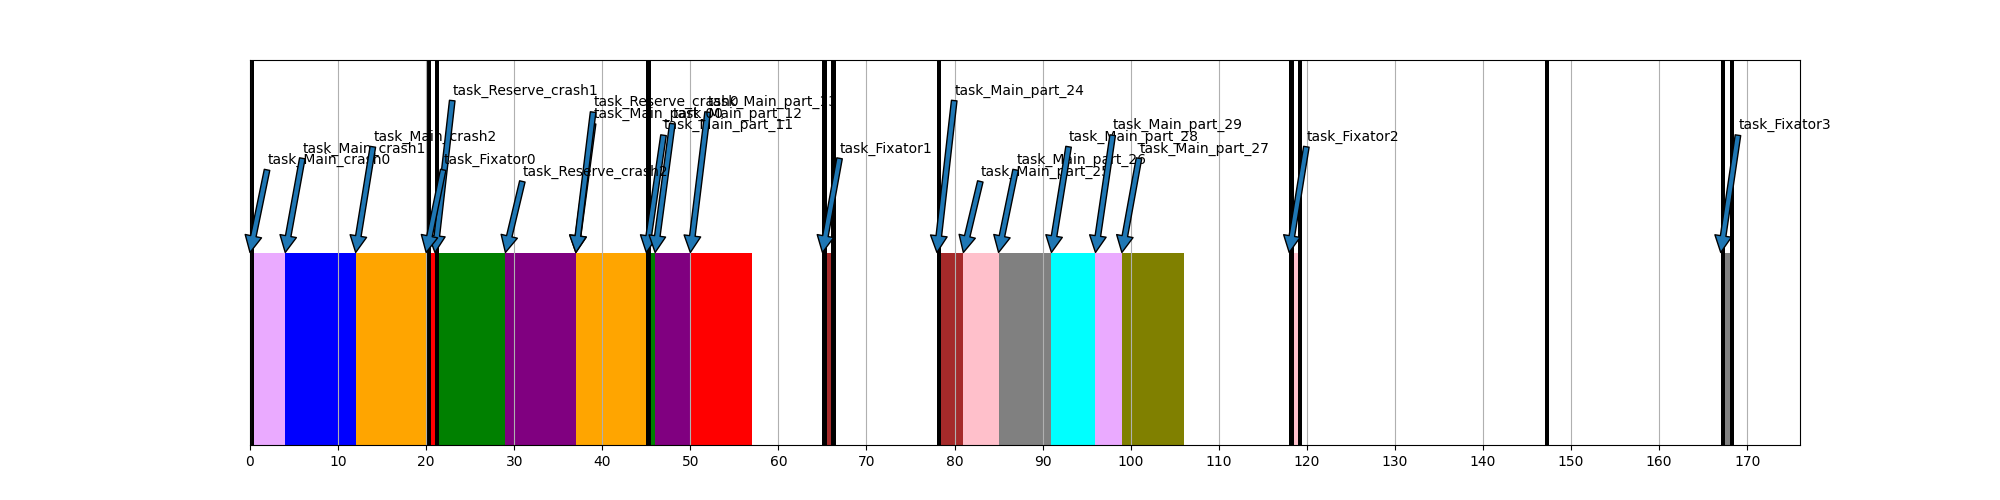
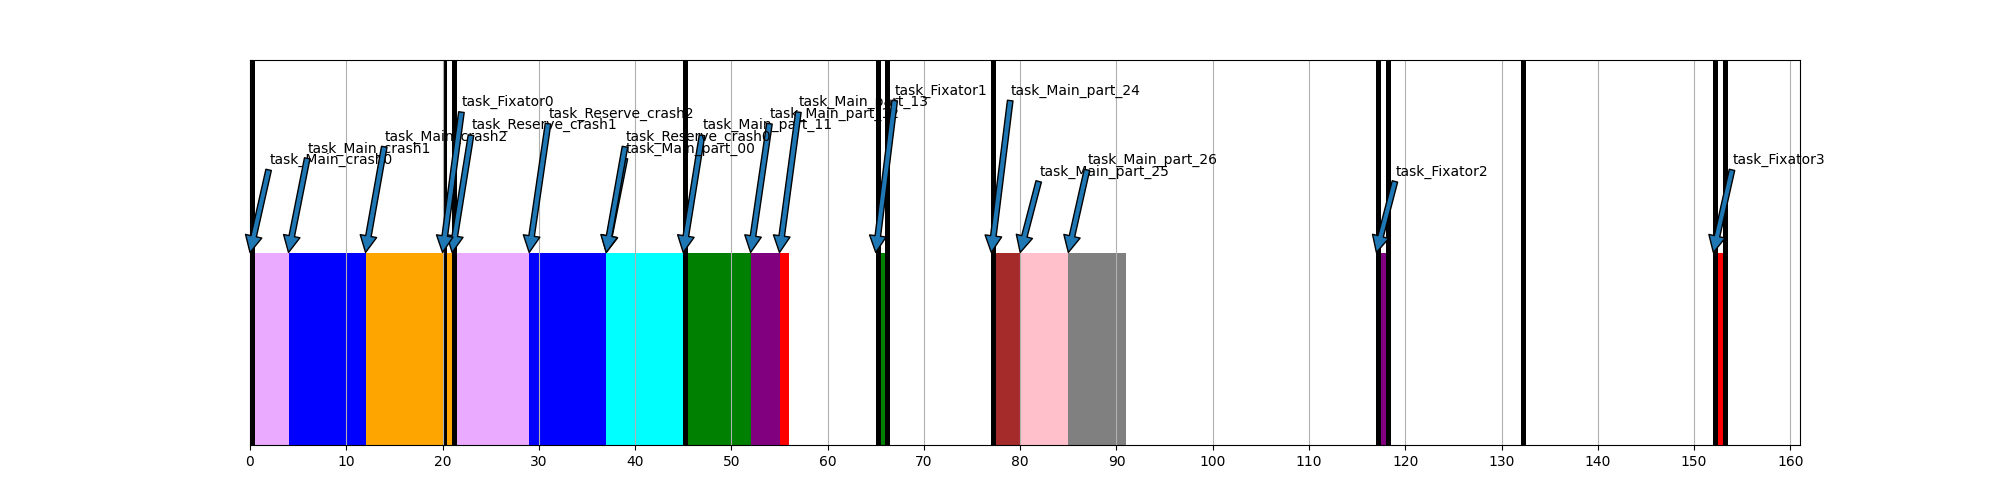
Bug fix and fix of vizual

Changed region(s): [[0.124, 0.12, 0.93, 0.93]]

diff --git a/First_run.py b/First_run.py
@@ -65,6 +65,8 @@ def read_data(TASK_CRASHED_ID, CRASHED_PART_OF_TASK, MF_PERIOD, FIXATOR_TIME, GR
 
     MAP_PARTITION_TASK = eval(config["MAP_PARTITION_TASK"]["dict"])
     MAP_WINDOW_PARTITION = eval(config["MAP_WINDOW_PARTITION"]["dict"])
+
+    return TASK_CRASHED_ID, CRASHED_PART_OF_TASK, MF_PERIOD, FIXATOR_TIME, GRAPH_INITIAL_APP, MAP_PARTITION_TASK, MAP_WINDOW_PARTITION
     
 
     
@@ -151,7 +153,8 @@ def create_double_visualization(filename1, filename2, task_crasshed_id):
     draw = ImageDraw.Draw(img)
     font = ImageFont.truetype(font="./open-sans/OpenSans-ExtraBold.ttf", size=40)
     # draw.text((x, y),"Sample Text",(r,g,b))
-    draw.text((10, 10),"Crashed task: " + str(task_crasshed_id) + "; Part of crashed task: " + str(CRASHED_PART_OF_TASK),(0,0,0), font=font )
+    draw.text((10, 10),"No fault",(0,0,0), font=font )
+    draw.text((10, 256*2 + 10),"Crashed task: " + str(task_crasshed_id) + "; Part of crashed task: " + "Left" if CRASHED_PART_OF_TASK == 0 else "Right",(0,0,0), font=font )
     with open("num_test.pkl", "rb") as file:
         next_test = pickle.load(file)
         try: 
@@ -288,7 +291,7 @@ def write_nvp_xml(graph_main_crash, MF_PERIOD, windows_nvp, second_main_app_grap
     with open("test_nvp.xml", "w") as file: 
         file.write("<?xml version=\"1.0\" ?>\n")
         file.write("<system>\n")
-        file.write("\t<module major_frame=\"{}\" name=\"core1\">\n\n".format(MF_PERIOD))
+        file.write("\t<module major_frame=\"{}\" name=\"core1\">\n\n".format(MF_PERIOD+1))
 
         graph_reserve_window = graph_main_crash.copy() 
         graph_fixator = ig.Graph(n=len(windows_nvp)//3)
@@ -353,18 +356,18 @@ def write_nvp_xml(graph_main_crash, MF_PERIOD, windows_nvp, second_main_app_grap
                     tmp1 = int(All_graphs_nvp_dict["Main"].vs[i]["name"])
                     tmp2 = MAP_PARTITION_TASK[Map_partition_id[q_partition]]
                     if tmp1 in tmp2:
-                        file.write("\t\t\t<task deadline=\"{}\" id=\"{}\" name=\"task_{}\" offset=\"0\" period=\"{}\" prio=\"1\" wcet=\"{}\"/>\n".format(MF_PERIOD - 1, str(int(All_graphs_nvp_dict["Main"].vs[i]["name"])), q_partition + str(i), MF_PERIOD, All_graphs_nvp_dict["Main"].vs[i]["duration"]))
+                        file.write("\t\t\t<task deadline=\"{}\" id=\"{}\" name=\"task_{}\" offset=\"0\" period=\"{}\" prio=\"1\" wcet=\"{}\"/>\n".format(MF_PERIOD + 1, str(int(All_graphs_nvp_dict["Main"].vs[i]["name"])), q_partition + str(i), MF_PERIOD, All_graphs_nvp_dict["Main"].vs[i]["duration"]))
 
             elif q_partition == "Main_crash":
                 for i in range(len(All_graphs_nvp_dict[q_partition].vs)):
                     if i in SET_OF_SEPARATED_TASKS: 
-                        file.write("\t\t\t<task deadline=\"{}\" id=\"{}\" name=\"task_{}\" offset=\"0\" period=\"{}\" prio=\"1\" wcet=\"{}\"/>\n".format(MF_PERIOD - 1, Task_id_cout + len(GRAPH_INITIAL_APP.vs), q_partition + str(i), MF_PERIOD, All_graphs_nvp_dict[q_partition].vs[i]["duration"]))
+                        file.write("\t\t\t<task deadline=\"{}\" id=\"{}\" name=\"task_{}\" offset=\"0\" period=\"{}\" prio=\"1\" wcet=\"{}\"/>\n".format(MF_PERIOD + 1, Task_id_cout + len(GRAPH_INITIAL_APP.vs), q_partition + str(i), MF_PERIOD, All_graphs_nvp_dict[q_partition].vs[i]["duration"]))
                     else:
-                        file.write("\t\t\t<task deadline=\"{}\" id=\"{}\" name=\"task_{}\" offset=\"0\" period=\"{}\" prio=\"1\" wcet=\"{}\"/>\n".format(MF_PERIOD - 1, str(int(All_graphs_nvp_dict[q_partition].vs[i]["name"])), q_partition + str(i), MF_PERIOD, All_graphs_nvp_dict[q_partition].vs[i]["duration"]))
+                        file.write("\t\t\t<task deadline=\"{}\" id=\"{}\" name=\"task_{}\" offset=\"0\" period=\"{}\" prio=\"1\" wcet=\"{}\"/>\n".format(MF_PERIOD + 1, str(int(All_graphs_nvp_dict[q_partition].vs[i]["name"])), q_partition + str(i), MF_PERIOD, All_graphs_nvp_dict[q_partition].vs[i]["duration"]))
                 
             else:
                 for i in range(len(All_graphs_nvp_dict[q_partition].vs)):
-                    file.write("\t\t\t<task deadline=\"{}\" id=\"{}\" name=\"task_{}\" offset=\"0\" period=\"{}\" prio=\"1\" wcet=\"{}\"/>\n".format(MF_PERIOD - 1, Task_id_cout + len(GRAPH_INITIAL_APP.vs), q_partition + str(i), MF_PERIOD, All_graphs_nvp_dict[q_partition].vs[i]["duration"]))
+                    file.write("\t\t\t<task deadline=\"{}\" id=\"{}\" name=\"task_{}\" offset=\"0\" period=\"{}\" prio=\"1\" wcet=\"{}\"/>\n".format(MF_PERIOD + 1, Task_id_cout + len(GRAPH_INITIAL_APP.vs), q_partition + str(i), MF_PERIOD, All_graphs_nvp_dict[q_partition].vs[i]["duration"]))
                     Task_id_cout += 1
             file.write("\t\t</partition>\n\n")
 
@@ -429,9 +432,19 @@ def write_nvp_xml(graph_main_crash, MF_PERIOD, windows_nvp, second_main_app_grap
 
 # INPUT FROM EXTERNAL FILE
 # --------------------------------------------------------------------------------------------------------------
-read_data(TASK_CRASHED_ID, CRASHED_PART_OF_TASK, MF_PERIOD, FIXATOR_TIME, GRAPH_INITIAL_APP, MAP_PARTITION_TASK, MAP_WINDOW_PARTITION)
+TASK_CRASHED_ID, CRASHED_PART_OF_TASK, MF_PERIOD, FIXATOR_TIME, GRAPH_INITIAL_APP, MAP_PARTITION_TASK, MAP_WINDOW_PARTITION = read_data(TASK_CRASHED_ID, CRASHED_PART_OF_TASK, MF_PERIOD, FIXATOR_TIME, GRAPH_INITIAL_APP, MAP_PARTITION_TASK, MAP_WINDOW_PARTITION)
 # --------------------------------------------------------------------------------------------------------------
 
+# hense we can create: 
+# ---
+MAP_WINDOWSTARTTIME_PARTITION = dict((k[0] ,v) for k,v in MAP_WINDOW_PARTITION.items())
+
+# ---
+
+WINDOWS = [i for i in MAP_WINDOW_PARTITION]
+PICTURE_FILENAME_INITIAL_APP = "initial_app"
+PICTURE_FILENAME_NVP = "nvp_fault"
+# ----------------------------------------------------------------------
 
 # CREATING XML FILE FOR FIRST ITERATION OF ALGORYTHM 
 # --------------------------------------------------------------------------------------------------------------
@@ -441,9 +454,9 @@ Write_xml_first_iter("test.xml", MF_PERIOD, GRAPH_INITIAL_APP, WINDOWS, MAP_PART
 
 # RUNNING MODELLING SYSTEM ON FIRST ITERATION 
 # --------------------------------------------------------------------------------------------------------------
-os.system("cp test.xml  MCSSim/generator/model_builder") 
+os.system("cp test.xml  MCSSim/generator/model_builder")
 os.system("cd ./MCSSim/generator/model_builder; ./model_builder test.xml > result.txt; cd -")
-os.system("cp ./MCSSim/generator/model_builder/result.txt  .") 
+os.system("cp ./MCSSim/generator/model_builder/result.txt  .")
 # --------------------------------------------------------------------------------------------------------------
 
 # VISUALIZING FIRST ITERATION APPLICATION 
@@ -503,7 +516,10 @@ for win in WINDOWS:
         cur_time += win[1] - win[0]
         windows_nvp += [Window_elem("Fixator", [cur_time, cur_time + FIXATOR_TIME])]
         cur_time += FIXATOR_TIME
-        reserve_win_time = sum([GRAPH_INITIAL_APP.vs[i]['duration'] for i in MAP_WINDOW_TASK[win] ])
+        if win in MAP_WINDOW_TASK:
+            reserve_win_time = sum([GRAPH_INITIAL_APP.vs[i]['duration'] for i in MAP_WINDOW_TASK[win] ])
+        else: 
+            reserve_win_time = 0
         #windows_nvp += [Window_elem("Reserve", [cur_time, win[1] - win[0] + cur_time])]
         #cur_time += win[1] - win[0]
         windows_nvp += [Window_elem("Reserve", [cur_time, reserve_win_time + cur_time])]
@@ -606,10 +622,17 @@ parsing = parser_.INTERVAL()
 inter2, inter2_int = parsing.create_int("result_nvp.txt")
 parsing.print_intervals()
 
+PICTURE_WITHOUT_FAULT = "no_fault"
+
 
 visioner2 = vision.VISUALISER()
 """Here you can specify name of output file."""
 visioner2.visualise(inter2, [i.time[0] for i in windows_nvp] + [windows_nvp[-1].time[1] + 1], PICTURE_FILENAME_NVP, MF_PERIOD)
 
-create_double_visualization(PICTURE_FILENAME_INITIAL_APP, PICTURE_FILENAME_NVP, TASK_CRASHED_ID)
+
+
+visioner2.visualise({i:inter2[i] for i in inter2 if "Reserve" not in i }, [i.time[0] for i in windows_nvp] + [windows_nvp[-1].time[1] + 1], PICTURE_WITHOUT_FAULT, MF_PERIOD)
+
+
+create_double_visualization(PICTURE_WITHOUT_FAULT, PICTURE_FILENAME_NVP, TASK_CRASHED_ID)
 

diff --git a/import_os.py b/import_os.py
@@ -1,0 +1,4 @@
+import os
+os.system("cp test_nvp.xml  MCSSim/generator/model_builder") 
+os.system("cd ./MCSSim/generator/model_builder; ./model_builder test_nvp.xml > result_nvp.txt; cd -")
+os.system("cp ./MCSSim/generator/model_builder/result_nvp.txt .") 
